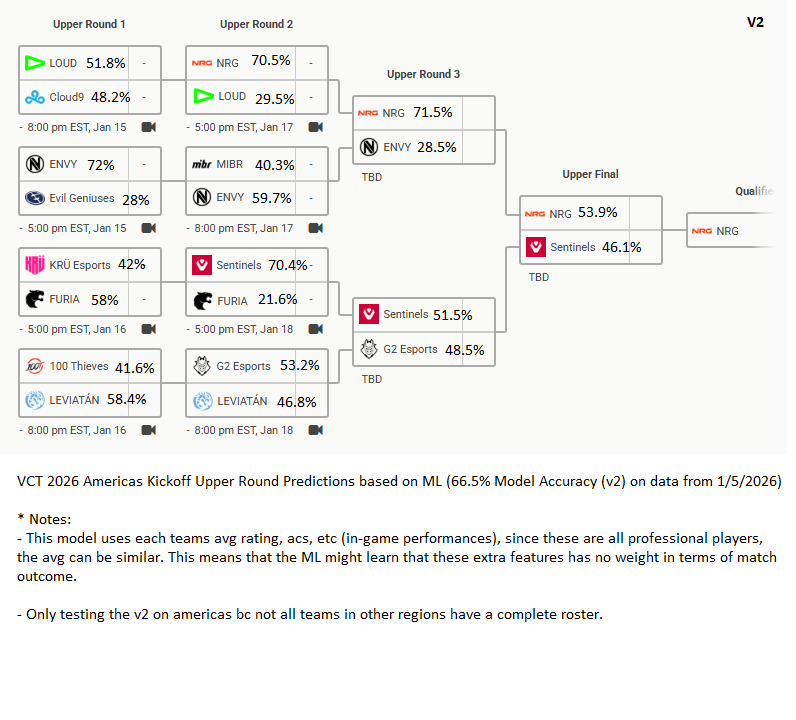
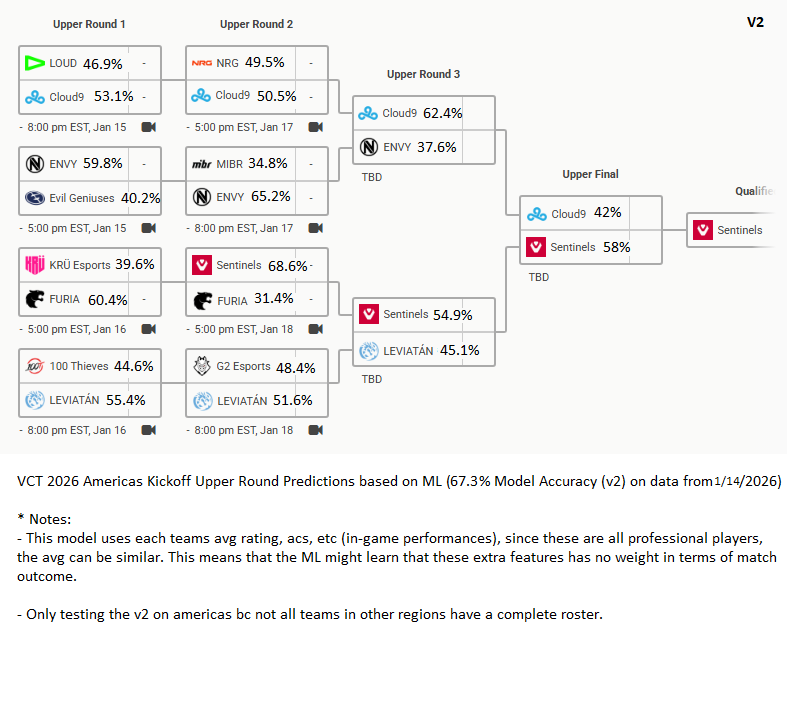
updated predictions with updated data and model

diff --git a/src/predictor.py b/src/predictor.py
@@ -46,6 +46,16 @@ def main():
     composite_score_diff = teams[t1]['composite_score'] - teams[t2]['composite_score']
 
     #predict
+    #v1
+    #pred = model.predict([[winrate_diff, form_diff, rnd_diff_diff]])[0]
+    #prob = model.predict_proba([[winrate_diff, form_diff, rnd_diff_diff]])[0]
+    #v2
+   #pred = model.predict([[winrate_diff, form_diff, rnd_diff_diff, team_avg_rating_diff, team_avg_acs_diff, team_avg_KD_diff, team_avg_kast_diff,
+   #                        team_avg_adr_diff, team_avg_kpr_diff, team_avg_apr_diff, team_avg_fkpr_diff]])[0]
+   #prob = model.predict_proba([[winrate_diff, form_diff, rnd_diff_diff, team_avg_rating_diff, team_avg_acs_diff, team_avg_KD_diff, team_avg_kast_diff,
+   #                              team_avg_adr_diff, team_avg_kpr_diff, team_avg_apr_diff, team_avg_fkpr_diff]])[0]
+
+    #v2.5
     pred = model.predict([[winrate_diff, form_diff, rnd_diff_diff, team_avg_rating_diff, team_avg_acs_diff, team_avg_KD_diff, team_avg_kast_diff,
                            team_avg_adr_diff, team_avg_kpr_diff, team_avg_apr_diff, team_avg_fkpr_diff, norm_rating_diff, norm_acs_diff, norm_KD_diff,
                            norm_kast_diff, norm_adr_diff, norm_kpr_diff, norm_apr_diff, norm_fkpr_diff, composite_score_diff]])[0]

diff --git a/README.md b/README.md
@@ -19,7 +19,6 @@ Inspired by traditional sports bracket challenges like March Madness, Valorant o
 ## TODO 
 
 - General Goals
-    - wait for roster updates to make predictions for other regions 
     - implement a system where you can enter all the matchups and output final bracket
     - improve accuracy further?
 
